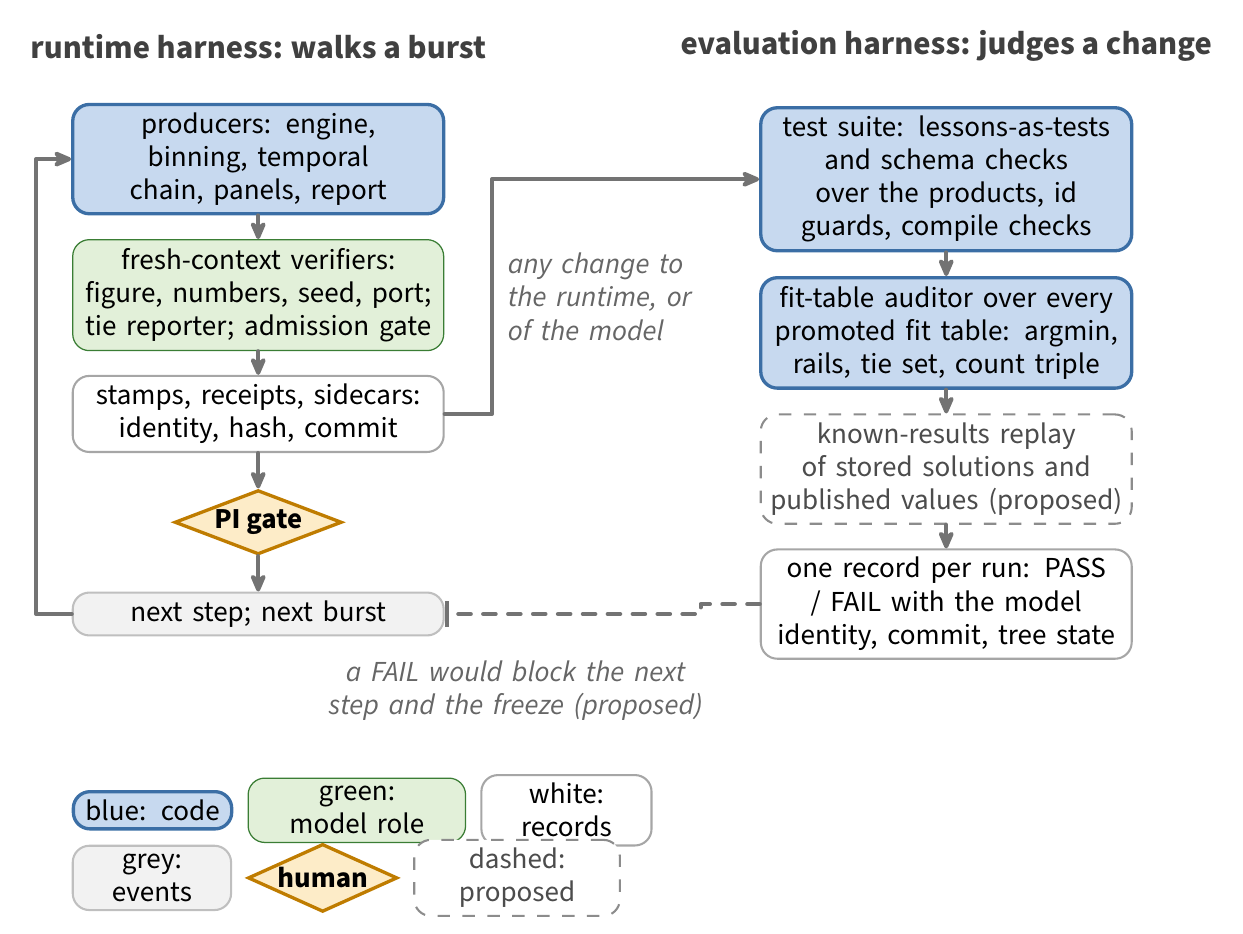
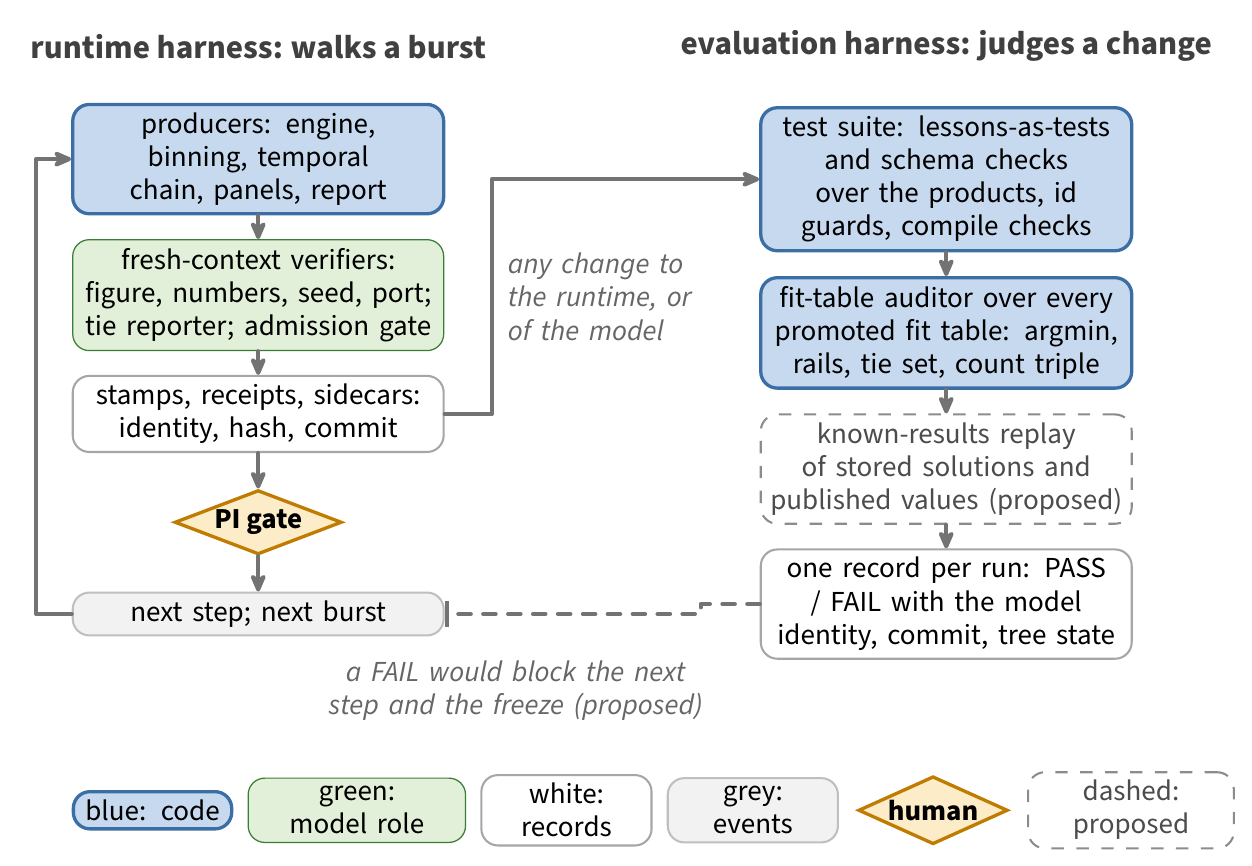
F8 r5: one-row legend restored (the two-row experiment collided and bought 0.04 pt); the printed type is fixed by placing the figure as a full-width float at 0.62 textwidth (scale 1.06, smallest text ~7.4 pt)
Claude-Session: https://claude.ai/code/session_014ZKU13JNR6E9CyYseiK5df

diff --git a/paper_agentic/figures/fig_F8_eval_harness.tex b/paper_agentic/figures/fig_F8_eval_harness.tex
@@ -1,6 +1,8 @@
 % F8 — Two harnesses: the runtime harness that walks a burst (left) and the evaluation harness that judges a change
 % to it (right). Single-column figure (~3.3 in). COLOUR GRAMMAR (decisions 24/26): blue = code, green = model role,
 % white = documents/records, amber = human, dashed = PROPOSED; Source Sans Pro; 1 pt soft-grey round arrows.
+% One-row legend (the two-row experiment of r4 collided and bought 0.04 pt of type; the canvas width is set by the two
+% 30 mm columns, not the legend — the figure is placed as a full-width float instead, see sec10_discussion.tex).
 % NO live count on the artifact (a suite size drifts with any commit: 134 -> 137 within one day when a generator was
 % added to the figure-style test). The caption binds the counts to ONE battery record: EVAL_20260903T221534Z.json
 % (137 tests collected, 136 passed + 1 xfailed; 25 promoted tables audited, 3 with findings; replay UNBUILT;
@@ -53,8 +55,8 @@
 \node[code, below=13mm of next.south west, anchor=north west, text width=12mm, font=\sffamily\scriptsize] (l1) {blue: code};
 \node[agent, right=1.2mm of l1, text width=17mm, font=\sffamily\scriptsize] (l2) {green: model role};
 \node[box, right=1.2mm of l2, text width=13mm, font=\sffamily\scriptsize] (l3) {white: records};
-\node[event, below=1.2mm of l1.south west, anchor=north west, text width=12mm, font=\sffamily\scriptsize] (l3b) {grey: events};
-\node[human, right=1.2mm of l3b, aspect=2.2, font=\sffamily\scriptsize\bfseries] (l4) {human};
-\node[prop, right=1.2mm of l4, text width=16mm, font=\sffamily\scriptsize] (l5) {dashed: proposed};
+\node[event, right=1.2mm of l3, text width=13mm, font=\sffamily\scriptsize] (l3b) {grey: events};
+\node[human, right=1.5mm of l3b, aspect=2.2, font=\sffamily\scriptsize\bfseries] (l4) {human};
+\node[prop, right=1.5mm of l4, text width=16mm, font=\sffamily\scriptsize] (l5) {dashed: proposed};
 \end{tikzpicture}
 \end{document}

diff --git a/paper_agentic/v3/sec10_discussion.tex b/paper_agentic/v3/sec10_discussion.tex
@@ -99,8 +99,9 @@ list.
 \enddata
 \end{deluxetable*}
 
-\begin{figure}[t]
-\includegraphics[width=\columnwidth]{figures/fig_F8_eval_harness.pdf}
+\begin{figure*}[t]
+\centering
+\includegraphics[width=0.62\textwidth]{figures/fig_F8_eval_harness.pdf}
 \caption{Two harnesses. Left, the runtime harness that walks a burst:
 producers, fresh-context verifiers, stamps, and the human gate. Right, the
 evaluation harness that judges a change to the runtime: the test suite,
@@ -116,7 +117,7 @@ gate that would enforce it is proposed. The dashed return, a failed
 battery blocking the next step and the freeze, is proposed: today the
 battery records its verdict and nothing yet consumes it.}
 \label{fig:evalharness}
-\end{figure}
+\end{figure*}
 
 \subsection{What generalizes}
 

diff --git a/paper_agentic/figures/GATE_LEDGER.md b/paper_agentic/figures/GATE_LEDGER.md
@@ -1,6 +1,6 @@
 # Paper v3 diagram gate ledger — TRACKED COPY
 
-Copied from `results/campaign/agentfigs/VISION_QC.md` (gitignored under results/*) at 2026-09-03T22:16:53Z, so the approval record of the manuscript's diagrams is commit-recoverable (Codex supervisor review D4, 2026-09-02). The results/ file remains the ledger the no-ship hook reads; this copy is refreshed by the building session whenever a diagram row changes.
+Copied from `results/campaign/agentfigs/VISION_QC.md` (gitignored under results/*) at 2026-09-03T22:28:26Z, so the approval record of the manuscript's diagrams is commit-recoverable (Codex supervisor review D4, 2026-09-02). The results/ file remains the ledger the no-ship hook reads; this copy is refreshed by the building session whenever a diagram row changes.
 
 ## Paper v3 diagrams — gate ledger appended 2026-09-03T03:32:12Z by the building session (verdicts by fresh-context figure-verifier agents; producer = building session)
 
@@ -94,3 +94,5 @@ Colour amendment addendum (F4/F8 precedent, recorded 2026-09-03): GREY fill (bla
[1 lines of base64/hex data omitted]
 | F8 | r3 verdict | — | — | FAIL — all seven nit fixes verified (legend 3.47 mm printed, label re-wrapped to three lines, bar tip flush outside the box at exactly 2.2 mm, wording defensible: 41 of the 44 tests it names do open products, 25 and 106 both correct, the pre-commit gate confirmed absent, grey declared); ONE hard defect: "134 tests" went stale when the F7 fix added the generator to the figure-style test (134 -> 137 the same day), and no artifact on disk carried 134 |
[1 lines of base64/hex data omitted]
+| F8 | r4 verdict | — | — | FAIL — the counts fix VERIFIED in full (no digit anywhere on the artifact; the caption's 137/136+1/25/3 re-derived from EVAL_20260903T221534Z.json, all 25 audited-table shas re-hashed, the record's git head confirmed an ancestor of HEAD, the record confirmed machine-written); the NEW two-row legend collided (a dashed key crossed the "white: records" box and ran 0.13 mm under its glyphs; the human diamond cleared the green key by 0.15 mm) and bought only +0.04 pt of printed type |
[1 lines of base64/hex data omitted]
